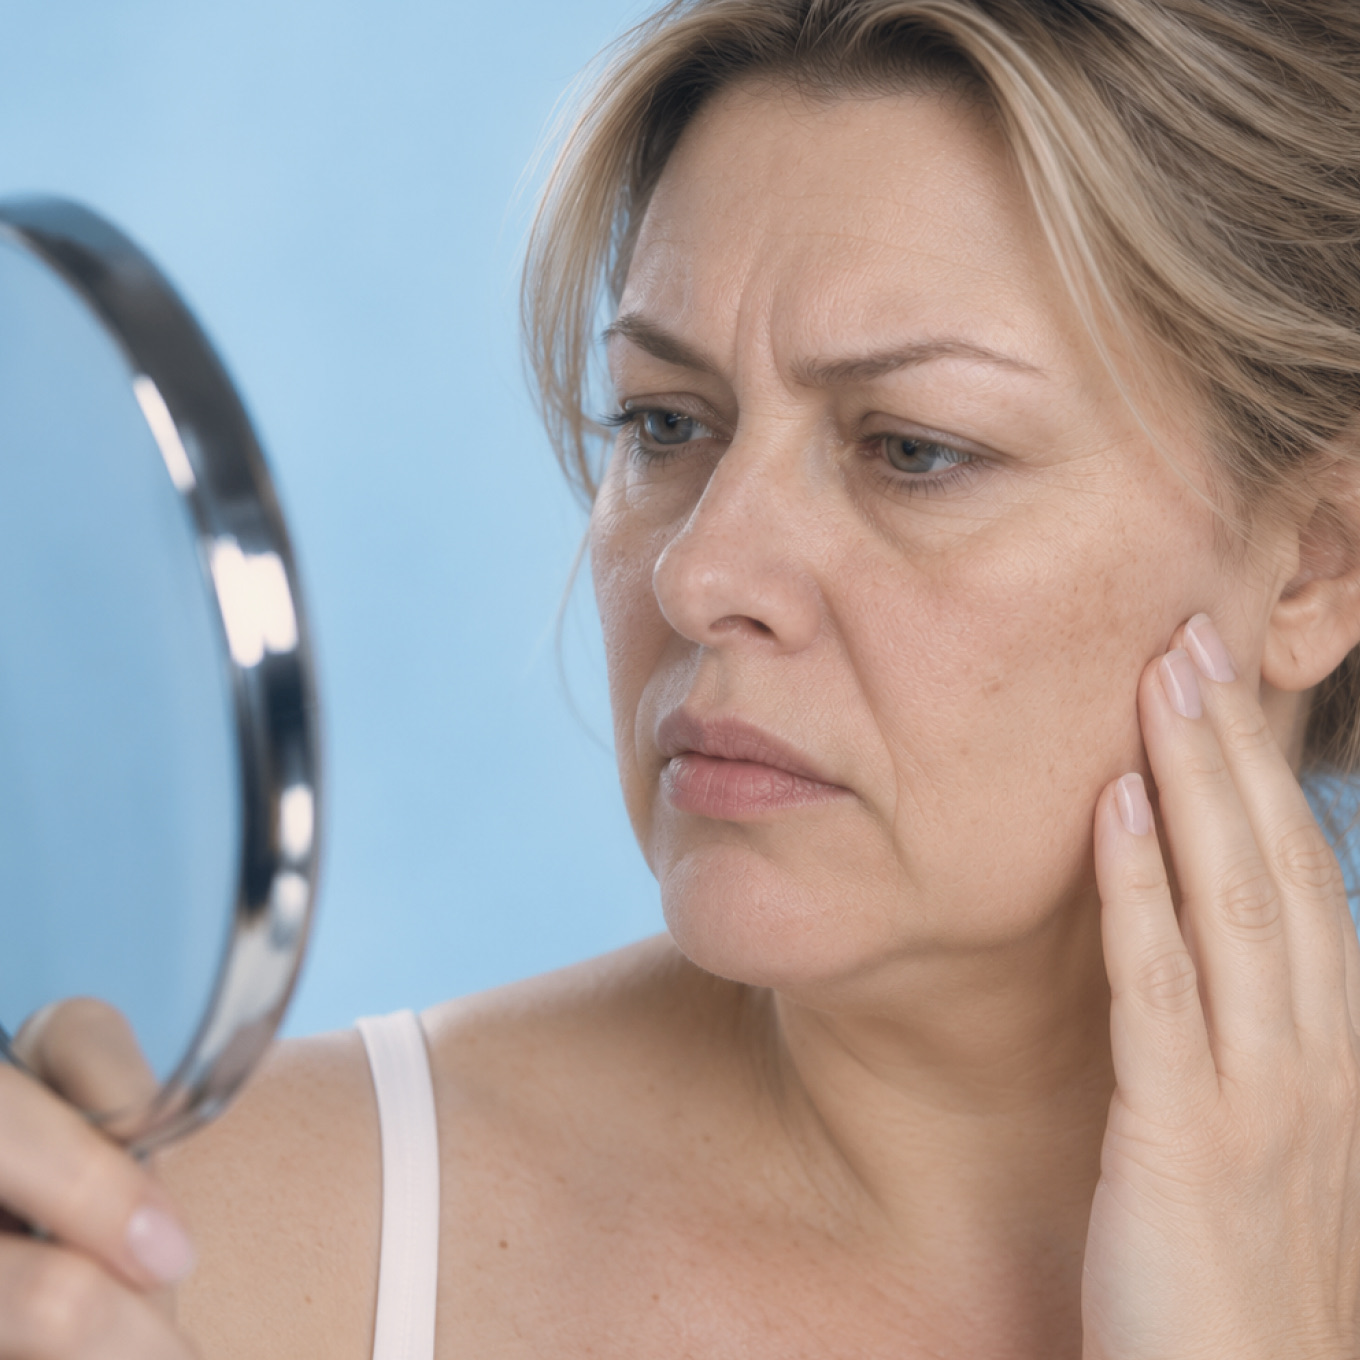
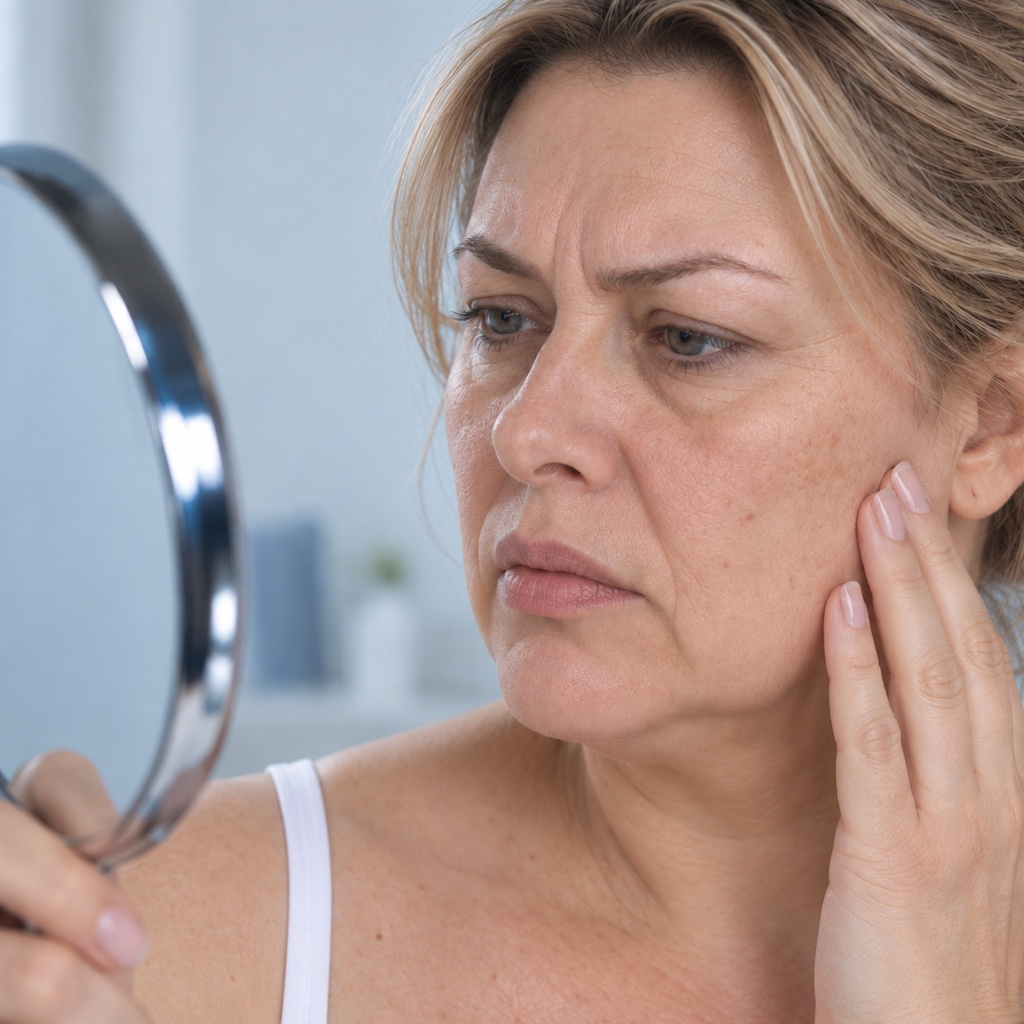
B02v3: новый кадр с зеркалом
680 из исходника, @2x — сам исходник 1024 px без повторного сжатия.

diff --git a/index.html b/index.html
@@ -332,7 +332,7 @@
 
         <div class="sc-story__photo sc-media--square">
           <img src="assets/img/story/mirror.jpg"
-               srcset="assets/img/story/mirror.jpg 680w, assets/img/story/mirror@2x.jpg 1360w"
+               srcset="assets/img/story/mirror.jpg 680w, assets/img/story/mirror@2x.jpg 1024w"
                sizes="(max-width: 640px) 100vw, 680px"
                alt="Жінка роздивляється шкіру обличчя в дзеркалі" width="680" height="680" loading="lazy" decoding="async">
         </div>

diff --git a/sections/b02v3-story.html b/sections/b02v3-story.html
@@ -117,7 +117,7 @@
 
         <div class="sc-story__photo sc-media--square">
           <img src="assets/img/story/mirror.jpg"
-               srcset="assets/img/story/mirror.jpg 680w, assets/img/story/mirror@2x.jpg 1360w"
+               srcset="assets/img/story/mirror.jpg 680w, assets/img/story/mirror@2x.jpg 1024w"
                sizes="(max-width: 640px) 100vw, 680px"
                alt="Жінка роздивляється шкіру обличчя в дзеркалі" width="680" height="680" loading="lazy" decoding="async">
         </div>

diff --git a/CHANGELOG.md b/CHANGELOG.md
@@ -6,6 +6,7 @@
 
 ## handoff-2 · в работе
 
+- **файлы + разметка** · B02v3 «Історія»: кадр з дзеркалом `assets/img/story/mirror.jpg` / `mirror@2x.jpg` заменён, `@2x` — 1024 px (`srcset` `1024w`).
 - **файлы + разметка** · B02v3 «Історія»: кадр `assets/img/story/ages.jpg` / `ages@2x.jpg` заменён (три жінки на траві, вигляд згори), `@2x` — 1254 px, в `srcset` дескриптор `1254w`; новый `alt`.
 - **разметка** · B04a, правка клиники: крок 1 — первинна консультація, УЗД шкіри, доплер
   (дерматоскопія, пункція і забір крові прибрані); крок 2 «Вхід у програму» — за результатами
